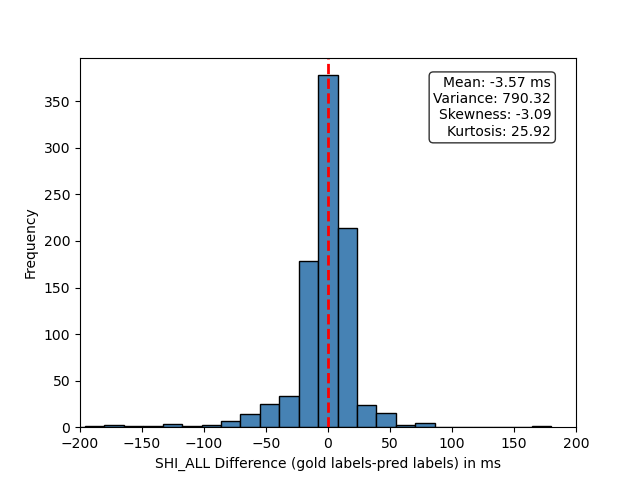
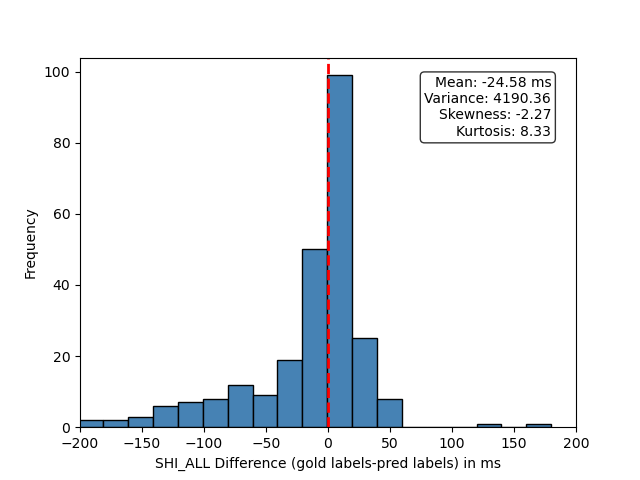
fixed issue from normalizing

diff --git a/evaluate_alignments.py b/evaluate_alignments.py
@@ -256,15 +256,17 @@ def main():
                 continue
 
             # Getting per-sentence metrics
+            sample = f"common_voice_22_0_{i}"
             gold = data['output_verified'][iso][i]
             pred = data[pred_folder][iso][i]
-            sample = f"common_voice_22_0_{i}"
-            
 
             correct,total,difs = sentence_overlap(gold, pred)
             perc = round(correct/total,3)
             output += ",".join([f'{iso}_phon',sample,f2s(total), f2s(correct), f2s(perc)]) + '\n'
             barchartdata.append((f'{iso}_phon',sample,total, correct, round(correct/total,3)))
+
+            gold = data_word['output_verified'][iso][i]
+            pred = data_word[pred_folder][iso][i]
 
             correct,total,difs = sentence_overlap(gold, pred)
             perc = round(correct/total,3)
